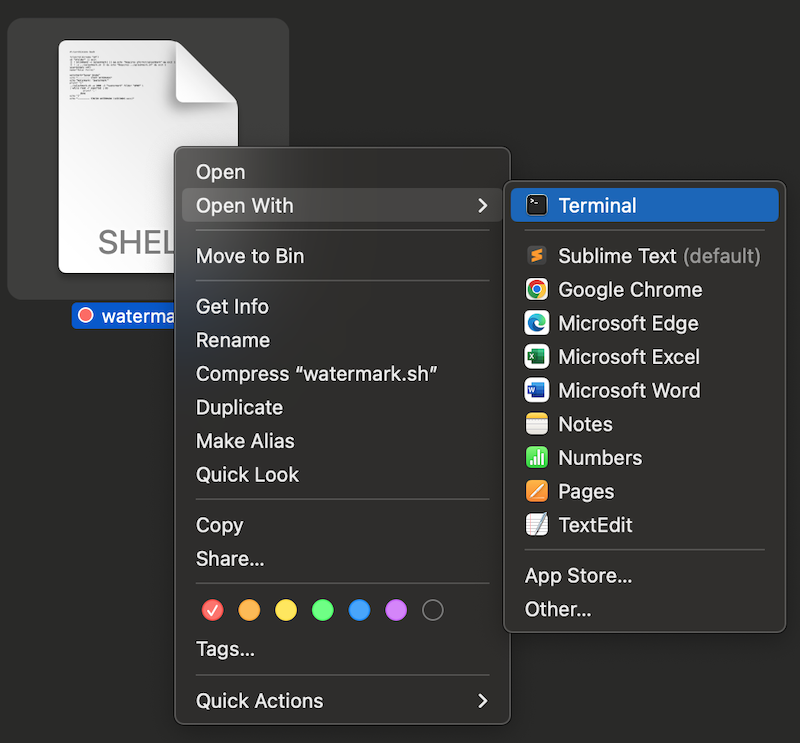
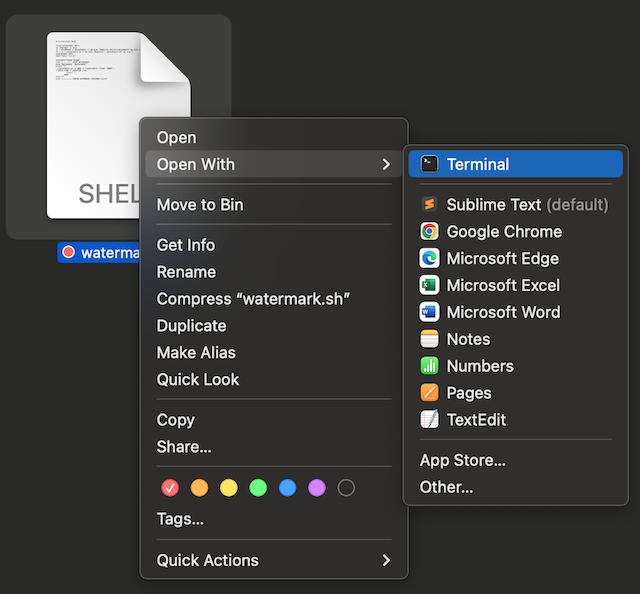
ADD: watermarked.png, MOD: WATERMARK.md openwith.png openwith2.png script_output.png texteditor.png

diff --git a/WATERMARK.md b/WATERMARK.md
@@ -64,3 +64,7 @@ Put the `watermark.sh` script in the folder of your exported, but not yet waterm
 Double-click the `watermark.sh` icon. A Terminal window will pop up and start executing the script.
 
 ![](assets/script_output.png)
+
+Watermarks will be added like this 
+
+![](assets/watermarked.png)
